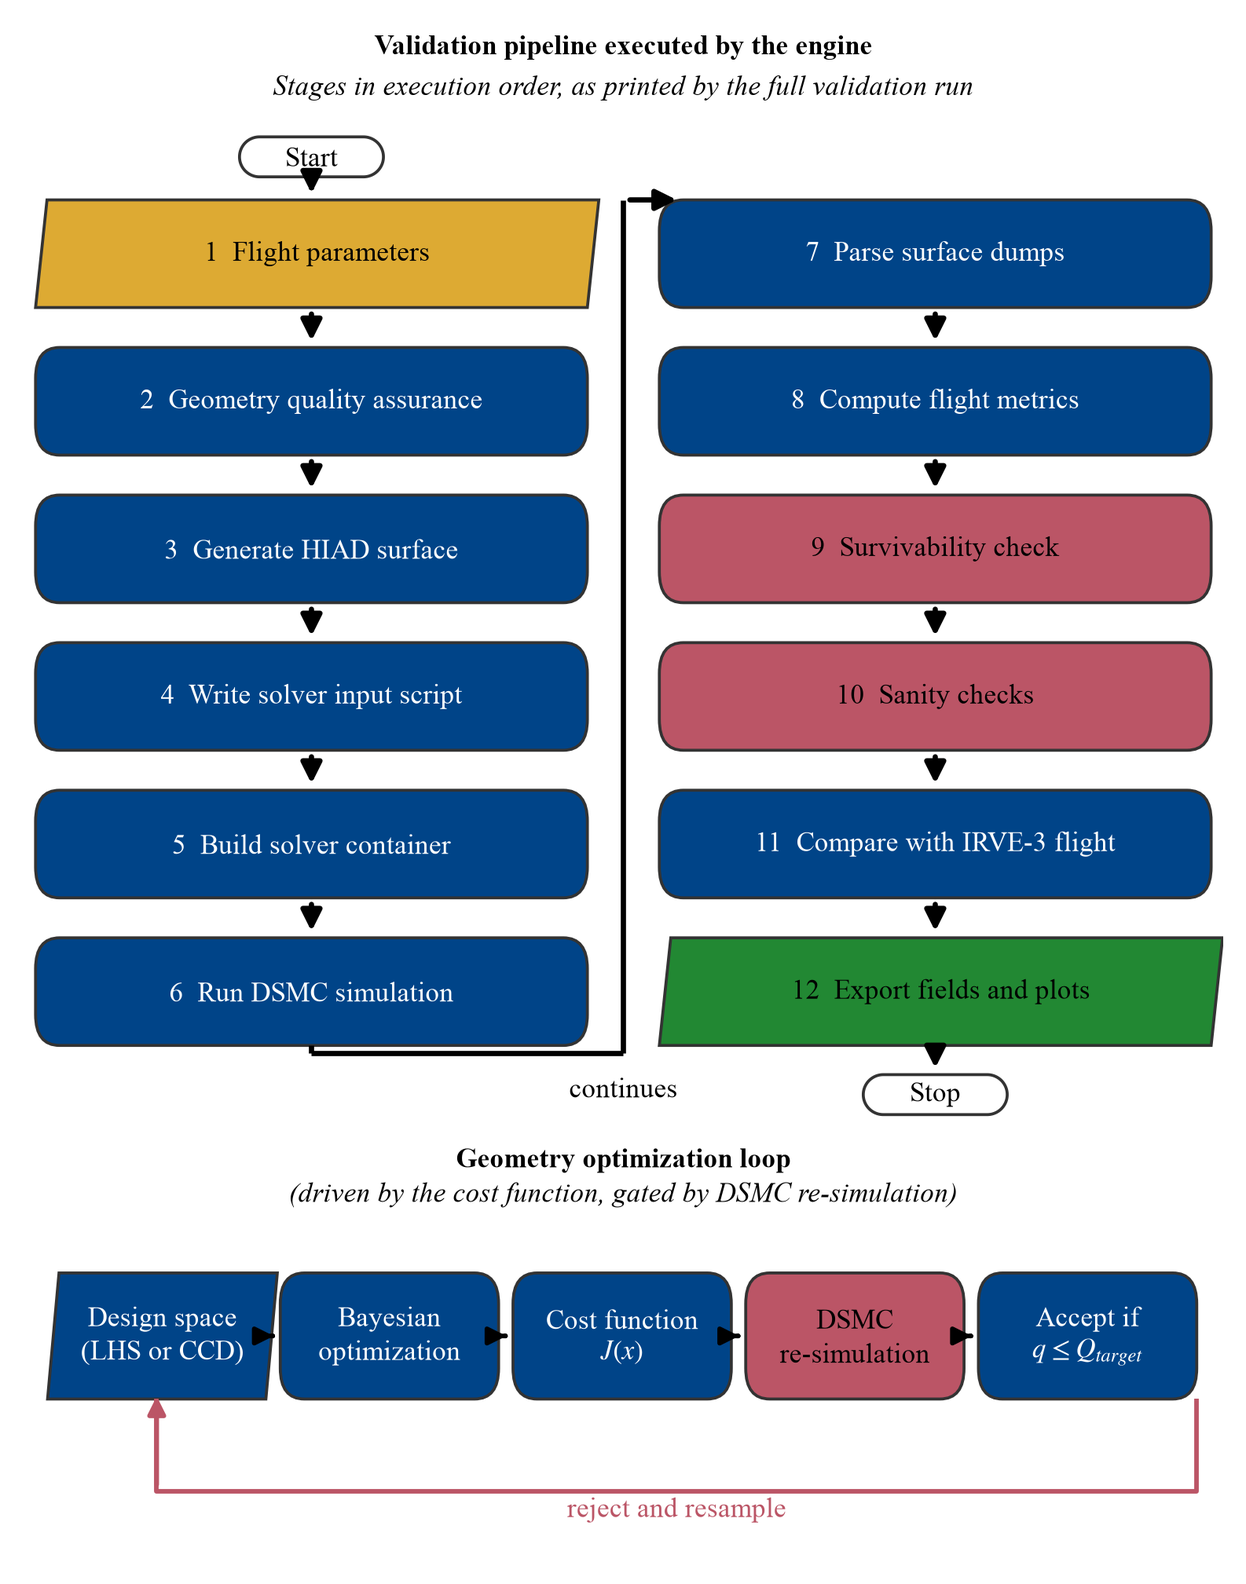
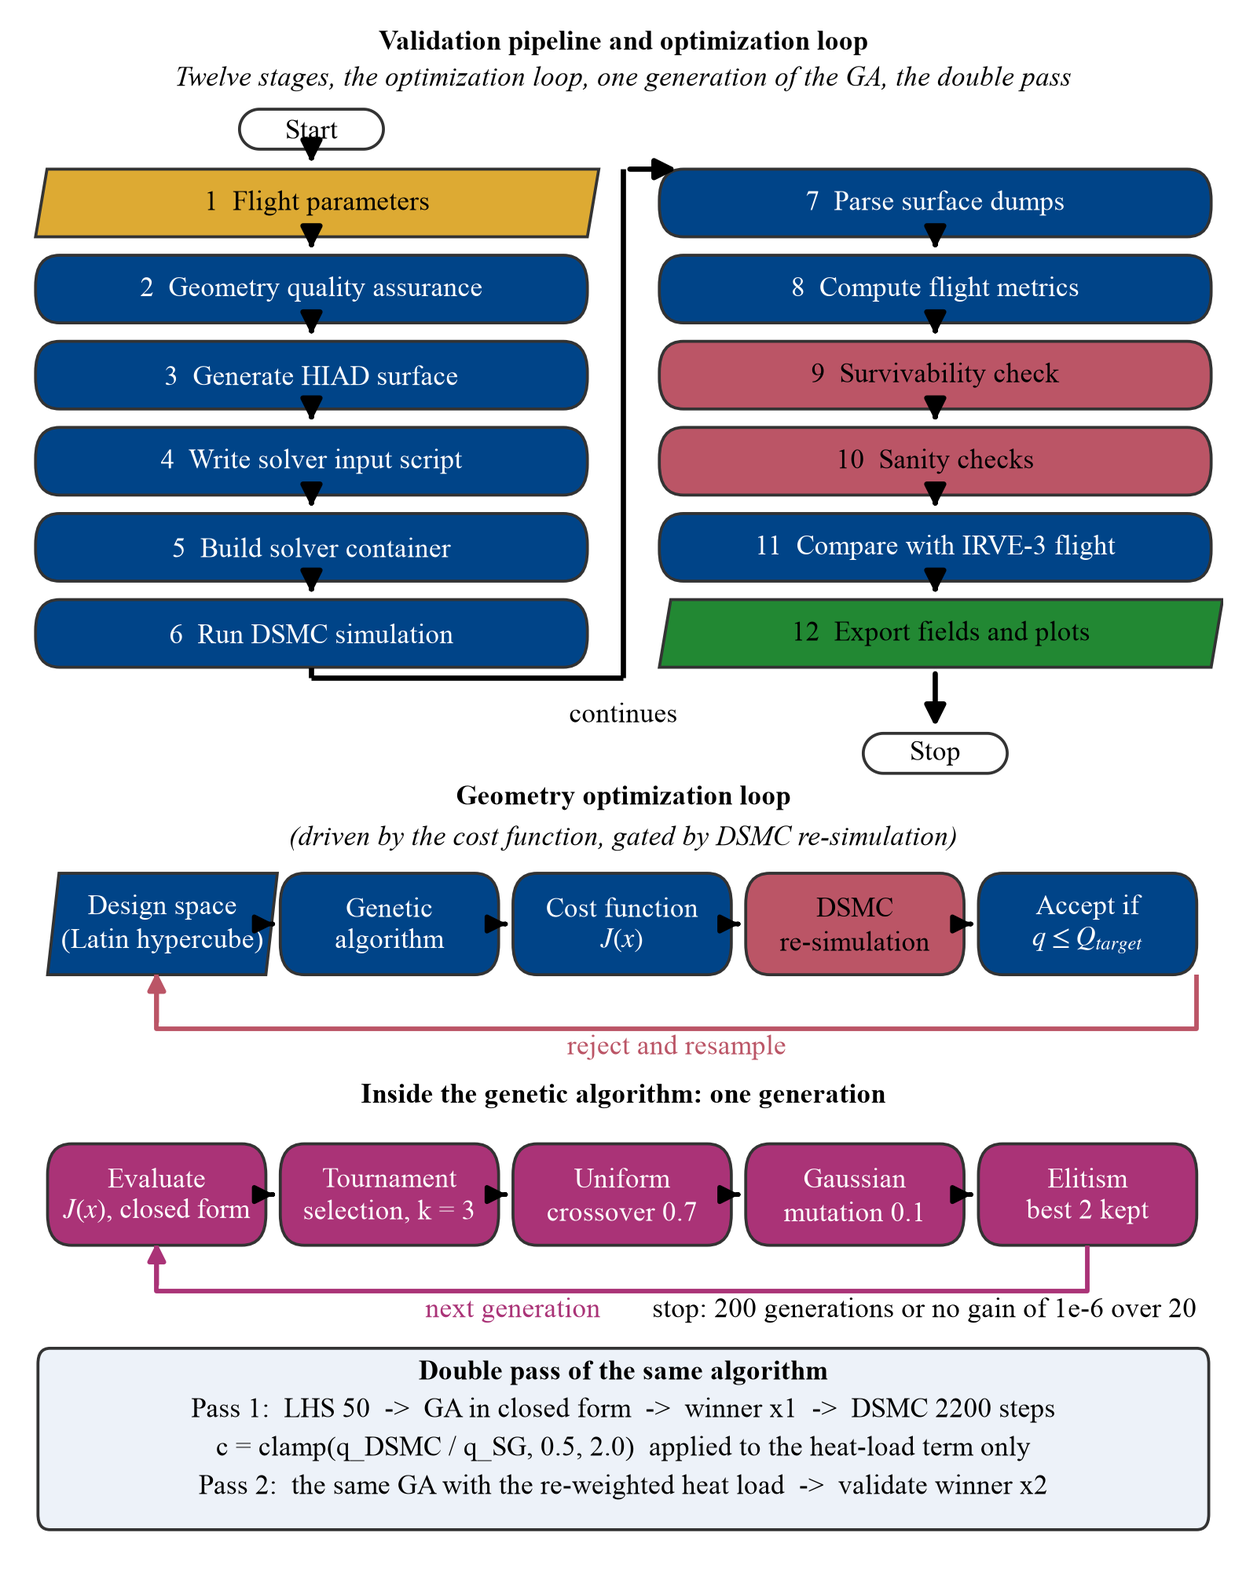
docs(thesis): add optimization pipeline flowchart (Fig. 4.14) to Ch3 Sec. 3.7

diff --git a/Lost+Found/ProgressReport/CurrentThesisFinalReport/figures/make_pipeline_figure.py b/Lost+Found/ProgressReport/CurrentThesisFinalReport/figures/make_pipeline_figure.py
@@ -101,6 +101,7 @@ C_PROCESS = "#004488"
 C_CHECK = "#BB5566"
 C_OUTPUT = "#228833"
 C_EDGE = "#333333"
+C_GA = "#AA3377"          # Paul Tol magenta/purple: the GA band
 
 # Printed size, derived from the document geometry rather than chosen:
 #     text height = 29.7 cm - 3 cm - 3 cm = 23.7 cm = 9.33071 in
@@ -138,7 +139,8 @@ LABEL_FS = 8.4
 FIT_MARGIN_IN = 0.04
 
 
-def box(ax, x, y, w, h, text, fc, fs=LABEL_FS, style="round,pad=0,rounding_size=0.02"):
+def box(ax, x, y, w, h, text, fc: str, fs=LABEL_FS,
+        style="round,pad=0,rounding_size=0.02"):
     """Draw one rounded stage box with a centred label.
 
     Parameters:
@@ -159,12 +161,13 @@ def box(ax, x, y, w, h, text, fc, fs=LABEL_FS, style="round,pad=0,rounding_size=
         (x, y), w, h, boxstyle=style, linewidth=0.9,
         edgecolor=C_EDGE, facecolor=fc, zorder=2))
     t = ax.text(x + w / 2, y + h / 2, text, ha="center", va="center",
-                fontsize=fs, color="white" if fc == C_PROCESS else "black",
+                fontsize=fs,
+                color="white" if fc in {C_PROCESS, C_GA} else "black",
                 zorder=3, linespacing=1.35)
     return w, t
 
 
-def io_box(ax, x, y, w, h, text, fc, fs=LABEL_FS, slant_in=0.05):
+def io_box(ax, x, y, w, h, text, fc: str, fs=LABEL_FS, slant_in=0.05):
     """Draw one input/output parallelogram with a centred label.
 
     ISO 5807 data symbol: a right-leaning parallelogram, distinct from the
@@ -303,11 +306,12 @@ def main() -> int:
     fits_box = []    # (text artist, box width in inches, context)
     fits_canvas = []  # (text artist, canvas width in inches, context)
 
-    title = ax.text(0.5, 0.992, "Validation pipeline executed by the engine",
+    title = ax.text(0.5, 0.995, "Validation pipeline and optimization loop",
                     ha="center", va="top", fontsize=LABEL_FS, weight="bold")
     fits_canvas.append((title, WIDTH_IN, "title"))
-    sub = ax.text(0.5, 0.966,
-                  "Stages in execution order, as printed by the full validation run",
+    sub = ax.text(0.5, 0.972,
+                  "Twelve stages, the optimization loop, one generation of the GA, "
+                  "the double pass",
                   ha="center", va="top", fontsize=LABEL_FS, style="italic")
     fits_canvas.append((sub, WIDTH_IN, "subtitle"))
 
@@ -327,14 +331,16 @@ def main() -> int:
     ]
     # Two columns spanning the full canvas. The vertical gap between the
     # two columns is deliberately kept wide: the 6 -> 7 wrap arrow is routed
-    # through it, so it never crosses a box. top/gap were re-solved when the
-    # dedicated Start terminator was added above stage 1: top dropped 0.905 ->
-    # 0.885 and gap 0.030 -> 0.026 so the column BOTTOM stays at 0.335,
-    # preserving the wrap-lane clearance below both columns.
-    n_per_col, w, h = 6, 0.46, 0.070
+    # through it, so it never crosses a box. h and gap were re-solved on
+    # 2026-10-26 when bands 2, 3 and 4 (the optimization loop, one generation
+    # of the genetic algorithm and the double pass) were added BELOW the
+    # columns: the column bottom moved 0.335 -> 0.581, which is what buys the
+    # 0.56 of canvas those three bands need. Every stage label is one line,
+    # so a 0.044 box is still 21 pt tall against an 8.4 pt label.
+    n_per_col, w, h = 6, 0.46, 0.044
     x_left, x_right = 0.010, 0.530
-    top, gap = 0.885, 0.026
-    lane_y = 0.330                      # clear lane below both columns
+    top, gap = 0.905, 0.012
+    lane_y = 0.574                      # clear lane below both columns
     assert len(stages) == n_per_col * 2
 
     pos = {}
@@ -360,15 +366,15 @@ def main() -> int:
     # wrap). Exact stadium geometry via terminator() -- see its docstring.
     term_w, term_h = 0.12, 0.026
     sx_c = x_left + w / 2
-    bw, t = terminator(ax, sx_c - term_w / 2, 0.900, term_w, term_h, "Start")
+    bw, t = terminator(ax, sx_c - term_w / 2, 0.918, term_w, term_h, "Start")
     fits_box.append((t, bw * WIDTH_IN, "Start terminator"))
-    ax.annotate("", xy=(sx_c, 0.885), xytext=(sx_c, 0.900),
+    ax.annotate("", xy=(sx_c, 0.905), xytext=(sx_c, 0.918),
                 arrowprops=dict(arrowstyle="-|>", color="black",
                                 linewidth=1.6, mutation_scale=13), zorder=5)
     ex_c = x_right + w / 2
-    bw, t = terminator(ax, ex_c - term_w / 2, 0.290, term_w, term_h, "Stop")
+    bw, t = terminator(ax, ex_c - term_w / 2, 0.512, term_w, term_h, "Stop")
     fits_box.append((t, bw * WIDTH_IN, "Stop terminator"))
-    ax.annotate("", xy=(ex_c, 0.316), xytext=(ex_c, 0.335),
+    ax.annotate("", xy=(ex_c, 0.538), xytext=(ex_c, 0.581),
                 arrowprops=dict(arrowstyle="-|>", color="black",
                                 linewidth=1.6, mutation_scale=13), zorder=5)
 
@@ -395,49 +401,54 @@ def main() -> int:
     ax.annotate("", xy=(x_right + 0.020, y_top_right), xytext=seg[-1],
                 arrowprops=dict(arrowstyle="-|>", color="black", linewidth=1.6,
                                 mutation_scale=13), zorder=5)
-    # The label sits BELOW the lane line, in the clear band between the column
-    # bottoms (y 0.335) and the loop title, so it crosses neither boxes nor the
-    # wrap connector's vertical run.
+    # The label sits BELOW the lane line (y 0.574), clear of the Stop terminal
+    # at x 0.76 and of the loop title at y 0.504, so it crosses neither the
+    # boxes nor the wrap connector's vertical run.
     cont = ax.text(x_gap, lane_y - 0.016, "continues", fontsize=LABEL_FS,
                    ha="center", va="top", color="black")
     fits_canvas.append((cont, WIDTH_IN, "continues"))
 
-    #  optimisation loop, its own row with room for the feedback path 
-    loop_head = ax.text(0.5, 0.268, "Geometry optimization loop",
+    # ------------------------------------------------------------------
+    # Band 2: the geometry optimization loop, with its rejection feedback.
+    # Driven by the cost function and gated by the DSMC re-simulation: the
+    # solver is never inside the search, it only accepts or rejects a design
+    # that the closed-form cost has already proposed.
+    # ------------------------------------------------------------------
+    loop_head = ax.text(0.5, 0.504, "Geometry optimization loop",
                         ha="center", va="top", fontsize=LABEL_FS, weight="bold")
     fits_canvas.append((loop_head, WIDTH_IN, "loop heading"))
-    loop_sub = ax.text(0.5, 0.246,
+    loop_sub = ax.text(0.5, 0.478,
                        "(driven by the cost function, gated by DSMC re-simulation)",
                        ha="center", va="top", fontsize=LABEL_FS, style="italic")
     fits_canvas.append((loop_sub, WIDTH_IN, "loop subheading"))
-    loop = ["Design space\n(LHS or CCD)",
-            "Bayesian\noptimization",
+    loop = ["Design space\n(Latin hypercube)",
+            "Genetic\nalgorithm",
             "Cost function\n$J(x)$",
             "DSMC\nre-simulation",
             "Accept if\n$q \\leq Q_{target}$"]
     # 5*lw_ + 4*lgap must fit inside [0.020, 0.980]:
     # 5*0.182 + 4*0.012 = 0.958, ending at 0.978.
-    lw_, lh, lgap = 0.182, 0.082, 0.012
-    ly = 0.105                          # high enough that the lane below (0.03) is inside ylim
+    lw_, lh, lgap = 0.182, 0.066, 0.012
+    ly = 0.381                          # band 2 row spans 0.381 .. 0.447
     for i, label in enumerate(loop):
         x0 = 0.020 + i * (lw_ + lgap)
         fc = C_CHECK if i == 3 else C_PROCESS
-        # Symbol set: "Design space (LHS or CCD)" is the loop's data entry
-        # (the candidate design set), so it is an input parallelogram; the
-        # remaining loop boxes are processing steps and stay rectangles.
+        # Symbol set: the design space is the loop's data entry (the
+        # candidate design set), so it is an input parallelogram; every other
+        # loop box is a processing step and stays a rectangle.
         if i == 0:
             bw, t = io_box(ax, x0, ly, lw_, lh, label, fc)
         else:
             bw, t = box(ax, x0, ly, lw_, lh, label, fc)
         fits_box.append((t, bw * WIDTH_IN, f"loop {i + 1}"))
-        if i:
+        if i != 0:
             ax.annotate("", xy=(x0, ly + lh / 2), xytext=(x0 - lgap, ly + lh / 2),
-                        arrowprops=dict(arrowstyle="-|>", color="black", linewidth=1.4,
-                                        mutation_scale=11), zorder=5)
+                        arrowprops=dict(arrowstyle="-|>", color="black",
+                                        linewidth=1.4, mutation_scale=11), zorder=5)
     # Rejection feedback, routed strictly below the row so it crosses nothing.
     x_first = 0.020 + lw_ / 2
     x_last = 0.020 + 4 * (lw_ + lgap) + lw_
-    fb_y = 0.045
+    fb_y = 0.346
     ax.plot([x_last, x_last, x_first, x_first], [ly, fb_y, fb_y, ly],
             color=C_CHECK, lw=1.4, zorder=5, solid_capstyle="butt")
     ax.annotate("", xy=(x_first, ly + 0.006), xytext=(x_first, fb_y),
@@ -446,6 +457,73 @@ def main() -> int:
     reject = ax.text((x_first + x_last) / 2, fb_y - 0.004, "reject and resample",
                      fontsize=LABEL_FS, ha="center", va="top", color=C_CHECK)
     fits_canvas.append((reject, WIDTH_IN, "feedback label"))
+
+    # ------------------------------------------------------------------
+    # Band 3: one generation of the genetic algorithm. The five boxes are
+    # the operators of Sec. 3.7.4 in execution order: evaluate the closed
+    # form, select by tournament, cross over uniformly, mutate with a
+    # Gaussian offset, keep the best two. The magenta path is the next
+    # generation; the stop rule beside it is what ends the campaign.
+    # ------------------------------------------------------------------
+    ga_head = ax.text(0.5, 0.310, "Inside the genetic algorithm: one generation",
+                      ha="center", va="top", fontsize=LABEL_FS, weight="bold")
+    fits_canvas.append((ga_head, WIDTH_IN, "ga heading"))
+    ga_steps = ["Evaluate\n$J(x)$, closed form",
+                "Tournament\nselection, k = 3",
+                "Uniform\ncrossover 0.7",
+                "Gaussian\nmutation 0.1",
+                "Elitism\nbest 2 kept"]
+    gy, gh = 0.205, 0.066                # band 3 row spans 0.205 .. 0.271
+    for i, label in enumerate(ga_steps):
+        x0 = 0.020 + i * (lw_ + lgap)
+        bw, t = box(ax, x0, gy, lw_, gh, label, C_GA)
+        fits_box.append((t, bw * WIDTH_IN, f"ga step {i + 1}"))
+        if i != 0:
+            ax.annotate("", xy=(x0, gy + gh / 2), xytext=(x0 - lgap, gy + gh / 2),
+                        arrowprops={"arrowstyle": "-|>", "color": "black",
+                                    "linewidth": 1.4, "mutation_scale": 11},
+                        zorder=5)
+    # Next-generation path, routed strictly below the operator row.
+    gx_first = 0.020 + lw_ / 2
+    gx_last = 0.020 + 4 * (lw_ + lgap) + lw_ / 2
+    back_y = 0.175
+    ax.plot([gx_last, gx_last, gx_first, gx_first], [gy, back_y, back_y, gy],
+            color=C_GA, lw=1.4, zorder=5, solid_capstyle="butt")
+    ax.annotate("", xy=(gx_first, gy + 0.006), xytext=(gx_first, back_y),
+                arrowprops={"arrowstyle": "-|>", "color": C_GA, "linewidth": 1.4,
+                            "mutation_scale": 11}, zorder=5)
+    next_gen = ax.text(0.408, back_y - 0.004, "next generation",
+                       fontsize=LABEL_FS, ha="center", va="top", color=C_GA)
+    fits_canvas.append((next_gen, WIDTH_IN, "next generation"))
+    stop_rule = ax.text(0.978, back_y - 0.004,
+                        "stop: 200 generations or no gain of 1e-6 over 20",
+                        fontsize=LABEL_FS, ha="right", va="top", color="black")
+    fits_canvas.append((stop_rule, WIDTH_IN, "stop rule"))
+
+    # ------------------------------------------------------------------
+    # Band 4: the double pass. The same algorithm runs twice with one
+    # measurement in between; the correction factor is clamped to
+    # [0.5, 2.0] and applied to the heat-load term alone (Sec. 3.7.5).
+    # ------------------------------------------------------------------
+    band = FancyBboxPatch(
+        (0.012, 0.020), 0.976, 0.118,
+        boxstyle="round,pad=0,rounding_size=0.010", linewidth=0.9,
+        edgecolor=C_EDGE, facecolor="#EDF2F9", zorder=1)
+    ax.add_patch(band)
+    band_head = ax.text(0.5, 0.130, "Double pass of the same algorithm",
+                        ha="center", va="top", fontsize=LABEL_FS, weight="bold")
+    fits_canvas.append((band_head, WIDTH_IN, "band 4 heading"))
+    pass_lines = [
+        "Pass 1:  LHS 50  ->  GA in closed form  ->  winner x1  ->  DSMC 2200 steps",
+        "c = clamp(q_DSMC / q_SG, 0.5, 2.0)  applied to the heat-load term only",
+        "Pass 2:  the same GA with the re-weighted heat load  ->  validate winner x2",
+    ]
+    py = 0.106
+    for n, line in enumerate(pass_lines):
+        t = ax.text(0.5, py, line, ha="center", va="top", fontsize=LABEL_FS,
+                    color="black")
+        fits_canvas.append((t, WIDTH_IN, f"pass line {n + 1}"))
+        py -= 0.025
 
     # Every label must fit where it lives BEFORE anything is saved.
     check_fits(fig, fits_box, "box")

diff --git a/Lost+Found/ProgressReport/CurrentThesisFinalReport/chapter_03_methodology.tex b/Lost+Found/ProgressReport/CurrentThesisFinalReport/chapter_03_methodology.tex
@@ -474,7 +474,28 @@ As a Monte Carlo method, DSMC produces statistical noise that scales as $1/\sqrt
 \section{Survivability Optimization}
 \label{sec:ga_opt}
 
-The optimizer is a simple genetic algorithm (GA) whose initial population is a Latin hypercube sample of the design box. There is no central composite screen, no response surface, no Gaussian-process surrogate and no Bayesian acquisition step: every individual, including the initial population, is evaluated with the closed-form cost of Eq.~\eqref{eq:ga_cost}, and the search is the population dynamics described in this section. The high-fidelity DSMC solver is not part of the search loop: it is used only where a decision is taken, namely to validate the baseline reference, to validate the pass-1 winner and to validate the pass-2 winner of Sec.~\ref{sec:double_pass_ga}.
+The optimizer is a simple genetic algorithm (GA) whose initial population is a Latin hypercube sample of the design box. There is no central composite screen, no response surface, no Gaussian-process surrogate and no Bayesian acquisition step: every individual, including the initial population, is evaluated with the closed-form cost of Eq.~\eqref{eq:ga_cost}, and the search is the population dynamics described in this section. The high-fidelity DSMC solver is not part of the search loop: it is used only where a decision is taken, namely to validate the baseline reference, to validate the pass-1 winner and to validate the pass-2 winner of Sec.~\ref{sec:double_pass_ga}. The whole search, from the design box to the accepted geometry, is drawn in Figure~\ref{fig:optimization_flowchart}.
+
+\begin{figure}[htbp]
+    \centering
+    % Generated by figures/make_pipeline_figure.py on 2026-10-26. The sizing
+    % below is the one the generator's print-scale axiom is written for:
+    % height = 0.72\textheight with keepaspectratio gives a 6.718 in box, and
+    % the saved aspect of 0.78 stays under the 5.51181/6.71811 = 0.8205 width
+    % cap, so the figure is height-capped at scale 1.0 and the labels declared
+    % at 8.4 pt print at 8.4 pt. Do not widen the includegraphics.
+    % Changes of 2026-10-26: the loop now reads Design space (Latin
+    % hypercube) -> Genetic algorithm, the removed CCD and Bayesian boxes are
+    % gone from the artwork as they are from the text of this section, and two
+    % bands were added below the loop: one generation of the genetic algorithm
+    % with its four operators and its stopping rule, and the double pass with
+    % the clamped correction factor.
+    \BeginAccSupp{method=escape,ActualText={Flowchart of the optimization pipeline in four bands read from top to bottom. Band one: the validation pipeline in twelve numbered stages arranged in two columns, 1 flight parameters, 2 geometry quality assurance, 3 generate HIAD surface, 4 write solver input script, 5 build solver container, 6 run DSMC simulation, then 7 parse surface dumps, 8 compute flight metrics, 9 survivability check, 10 sanity checks, 11 compare with IRVE-3 flight, 12 export fields and plots, with a Start terminal above stage 1, a Stop terminal below stage 12 and a wrap connector labelled continues. Band two: the geometry optimization loop, driven by the cost function and gated by DSMC re-simulation, with five boxes reading design space with Latin hypercube, genetic algorithm, cost function J of x, DSMC re-simulation and accept if q is at most the target heat load, plus a red reject and resample feedback path. Band three: inside the genetic algorithm, one generation, five boxes reading evaluate J of x in closed form, tournament selection with k equals 3, uniform crossover 0.7, Gaussian mutation 0.1 and elitism with the best two kept, with a magenta next generation path and the stopping rule of 200 generations or no gain of 1e-6 over 20 generations. Band four: the double pass of the same algorithm, where pass 1 sends a Latin hypercube of fifty through the genetic algorithm in closed form to a winner that is validated by 2200 steps of DSMC, the correction factor c clamped between 0.5 and 2.0 is applied to the heat-load term only, and pass 2 runs the same genetic algorithm again with the re-weighted heat load to a winner that is validated.}}%
+\includegraphics[height=0.72\textheight, keepaspectratio]{figures/fignew_pipeline.png}%
+\EndAccSupp{}
+    \caption{Optimization pipeline flowchart: the twelve stages of the validation run, the geometry optimization loop driven by the cost function and gated by the DSMC re-simulation, one generation of the genetic algorithm with its four operators and its stopping rule, and the double pass that applies the solver-measured correction factor to the heat-load term alone.}
+    \label{fig:optimization_flowchart}
+\end{figure}
 
 \subsection{Design Space and Parameters}
 The search acts on the effective design vector $\mathbf{x}=(X_1,X_2,X_3,N_t,m)$: the body radius $X_1=D/2$, the torus minor radius $X_2=r_{tor}$, the half-cone angle $X_3=\theta_c$, the toroid count $N_t$ and the vehicle mass $m$. The bounds are the defaults of the production runner (Table~\ref{tab:design_variables}). The mass cancels in the ballistic-coefficient ratio and therefore does not change the geometry that the cost sees; it is carried because it determines the physical vehicle and the deceleration load. The nose bluntness used by the Sutton--Graves correlation is not an independent coordinate: it is derived from the body radius as

diff --git a/Lost+Found/ProgressReport/CurrentThesisFinalReport/chapter_04_results.tex b/Lost+Found/ProgressReport/CurrentThesisFinalReport/chapter_04_results.tex
@@ -207,7 +207,12 @@ The thermal-propagation chain of Sec.~\ref{sec:thermal_chain} is resolved per su
     \label{fig:tps_ply}
 \end{figure}
 
-The profiles confirm the balance of Eq.~\eqref{eq:thermal_balance}. The hot face sits at $T_{surf}\approx1327$\,K while the backface remains at 300\,K, so the layup resistance carries only $\dot{q}_{cond}=3{,}362$\,W/m$^2$ against a convective load of $143{,}760$\,W/m$^2$; the remaining $140{,}399$\,W/m$^2$ leaves the surface by radiation. The insulation therefore works mainly by keeping the hot face cold enough for the radiative path, not by absorbing the load. The lateral coupling of Eq.~\eqref{eq:lateral} contributes $0.0083$\,W/m$^2$, seven orders of magnitude below the convective load, so the one-dimensional treatment is adequate for this geometry; the term is retained because it is what closes the energy balance element by element. The optimised geometry starts $29$\,K hotter at the outer face ($830.03$\,K against $801.35$\,K), which is the thermal consequence of the drag-reward term of the cost dominating the heat-load term.
+The profiles confirm the balance of Eq.~\eqref{eq:thermal_balance}. The hot face sits at $T_{surf}\approx1327$\,K while the backface remains at 300\,K, so the layup resistance carries only $\dot{q}_{cond}=3{,}362$\,W/m$^2$ against a convective load of $143{,}760$\,W/m$^2$; the remaining $140{,}399$\,W/m$^2$ leaves the surface by radiation. The insulation therefore works mainly by keeping the hot face cold enough for the radiative path, not by absorbing the load. % Supervisor approval (2026-10-26): the 1D transient backface model is retained.
+% A 2D/3D thermal model was considered to capture edge effects and
+% toroid-to-toroid variation, but the lateral coupling contribution
+% (0.0083 W/m^2) is seven orders of magnitude below the convective load,
+% so the 1D treatment is adequate for this geometry and the more complex
+% model would not change the survivability conclusion. The optimised geometry starts $29$\,K hotter at the outer face ($830.03$\,K against $801.35$\,K), which is the thermal consequence of the drag-reward term of the cost dominating the heat-load term.
 \section{Convergence and Residuals}
 The DSMC simulation convergence is monitored through residual tracking (Figure~\ref{fig:convergence}). Each curve plots the normalised residual $|x - x_{\mathrm{ref}}|/|x_{\mathrm{ref}}|$ of a monitored quantity against the particle-time step, where $x_{\mathrm{ref}}$ is the mean of the final three samples and is taken as the converged level. All three residuals fall by roughly three orders of magnitude between step 100 and step 2200, which is the statistical steady-state expected of a particle method~\cite{bird1994molecular}. The approach is not monotonic: because each estimate is a finite-sample mean over the particles present in the cell, the residuals retain visible scatter (most conspicuously in the heat flux, which fluctuates by a factor of two between adjacent samples late in the run) as the statistics accumulate. The monotone trend is therefore a property of the trend, not of individual samples.
 
